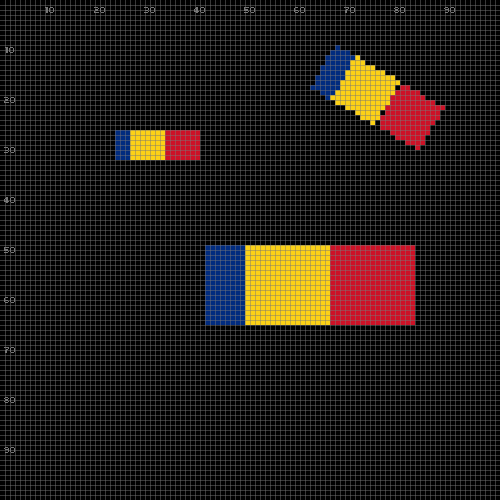
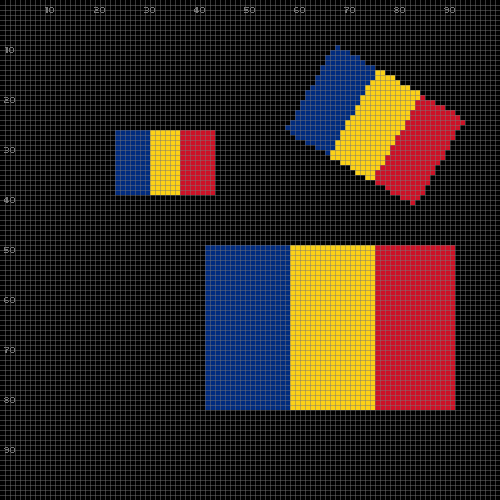
- fix: anc -> anchor

Changed region(s): [[0.39, 0.48, 0.93, 0.84], [0.57, 0.09, 0.93, 0.42], [0.21, 0.24, 0.45, 0.39]]

diff --git a/lua/doc/guide.md b/lua/doc/guide.md
@@ -691,10 +691,9 @@ First, let's rotate the flag 30° and draw it at the top-right:
 <table>
 <tr><td><pre>
 > pico.set.layer("flag")
-> pico.set.view { rotation = {angle=30, anchor='C'} }
+> pico.set.view { rotation={angle=30, anchor='C'} }
 > pico.set.layer()
-> pico.output.draw.layer("flag",
-    {'%', x=0.75, y=0.25, w=0.3})
+> pico.output.draw.layer("flag", {'%', x=0.75, y=0.25, w=0.3})
 </pre>
 </td><td>
 <img src="img/guide-08-03-01.png" width="200">
@@ -715,8 +714,7 @@ bottom-left:
     flip = "horizontal",
   }
 > pico.set.layer()
-> pico.output.draw.layer("flag",
-    {'%', x=0.25, y=0.75, w=0.3})
+> pico.output.draw.layer("flag", {'%', x=0.25, y=0.80, w=0.2})
 </pre>
 </td><td>
 <img src="img/guide-08-03-02.png" width="200">
